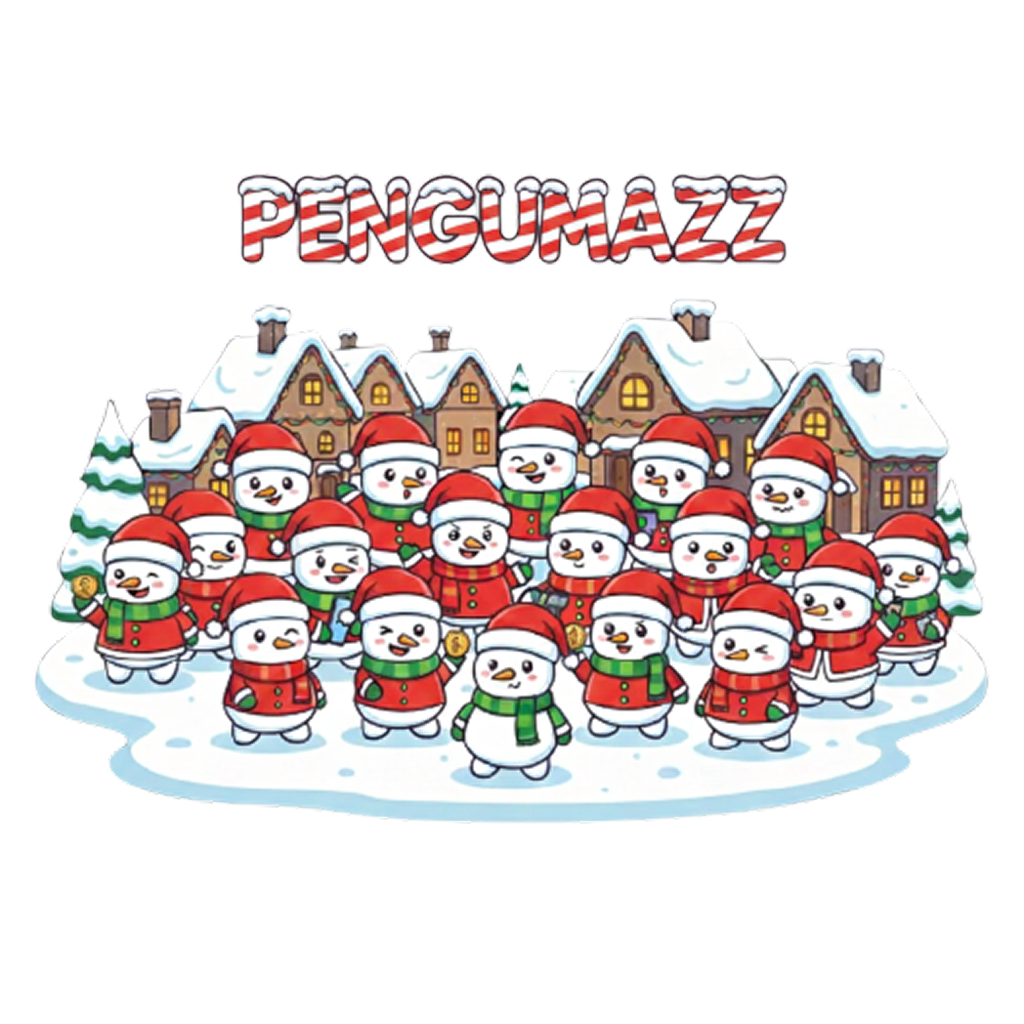
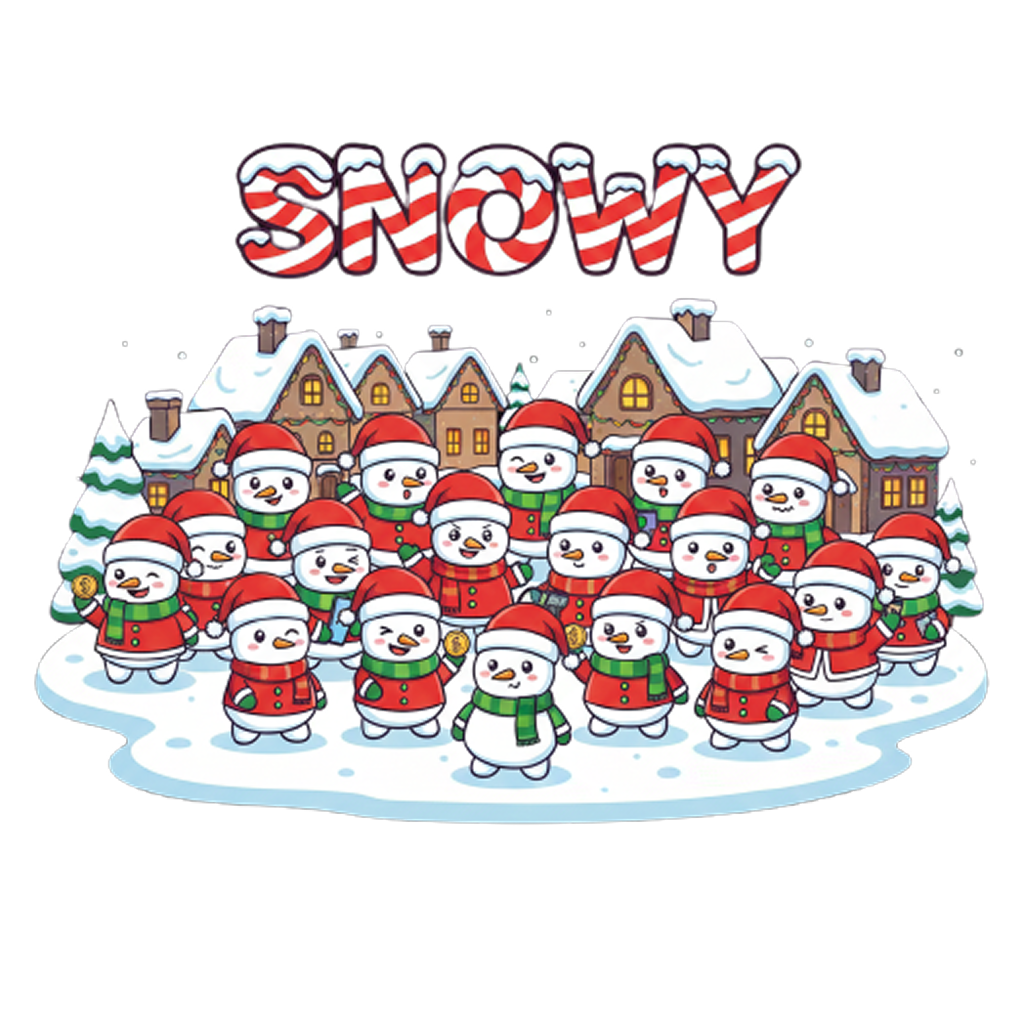
change lagiiiii

diff --git a/src/components/About.tsx b/src/components/About.tsx
@@ -71,7 +71,7 @@ export default function About() {
                 {/* center text + contract */}
                 <div className="flex-1 max-w-3xl text-center px-4">
                     <span className="inline-block text-xs sm:text-sm font-semibold tracking-widest text-red-300 uppercase mb-3">
-                        JOIN THE PENGUMAZZ CULT
+                        JOIN THE SNOWY CULT
                     </span>
 
                     <h2 className="mt-2 text-2xl sm:text-3xl md:text-4xl font-extrabold text-white uppercase border-b-4 border-red-600 pb-3 mx-auto">

diff --git a/src/components/Nav.tsx b/src/components/Nav.tsx
@@ -60,7 +60,7 @@ export default function Nav() {
                         target="_blank"
                         className="transition-colors duration-300 ease-in-out font-stopbuck text-lg sm:text-2xl rounded-xl px-3.5 py-2.5 font-medium shadow-2xl bg-black text-white hover:bg-white hover:text-gray-900 outline-2 outline-offset-0"
                     >
-                        Buy $PENGUMAZZ
+                        Buy $SNOWY
                     </a>
                 </div>
             </div>

diff --git a/index.html b/index.html
@@ -4,7 +4,7 @@
     <meta charset="UTF-8" />
     <link rel="icon" type="image/svg+xml" href="/vite.svg" />
     <meta name="viewport" content="width=device-width, initial-scale=1.0" />
-    <title>snowy</title>
+    <title>SNOWY</title>
   </head>
   <body>
     <div id="root"></div>
